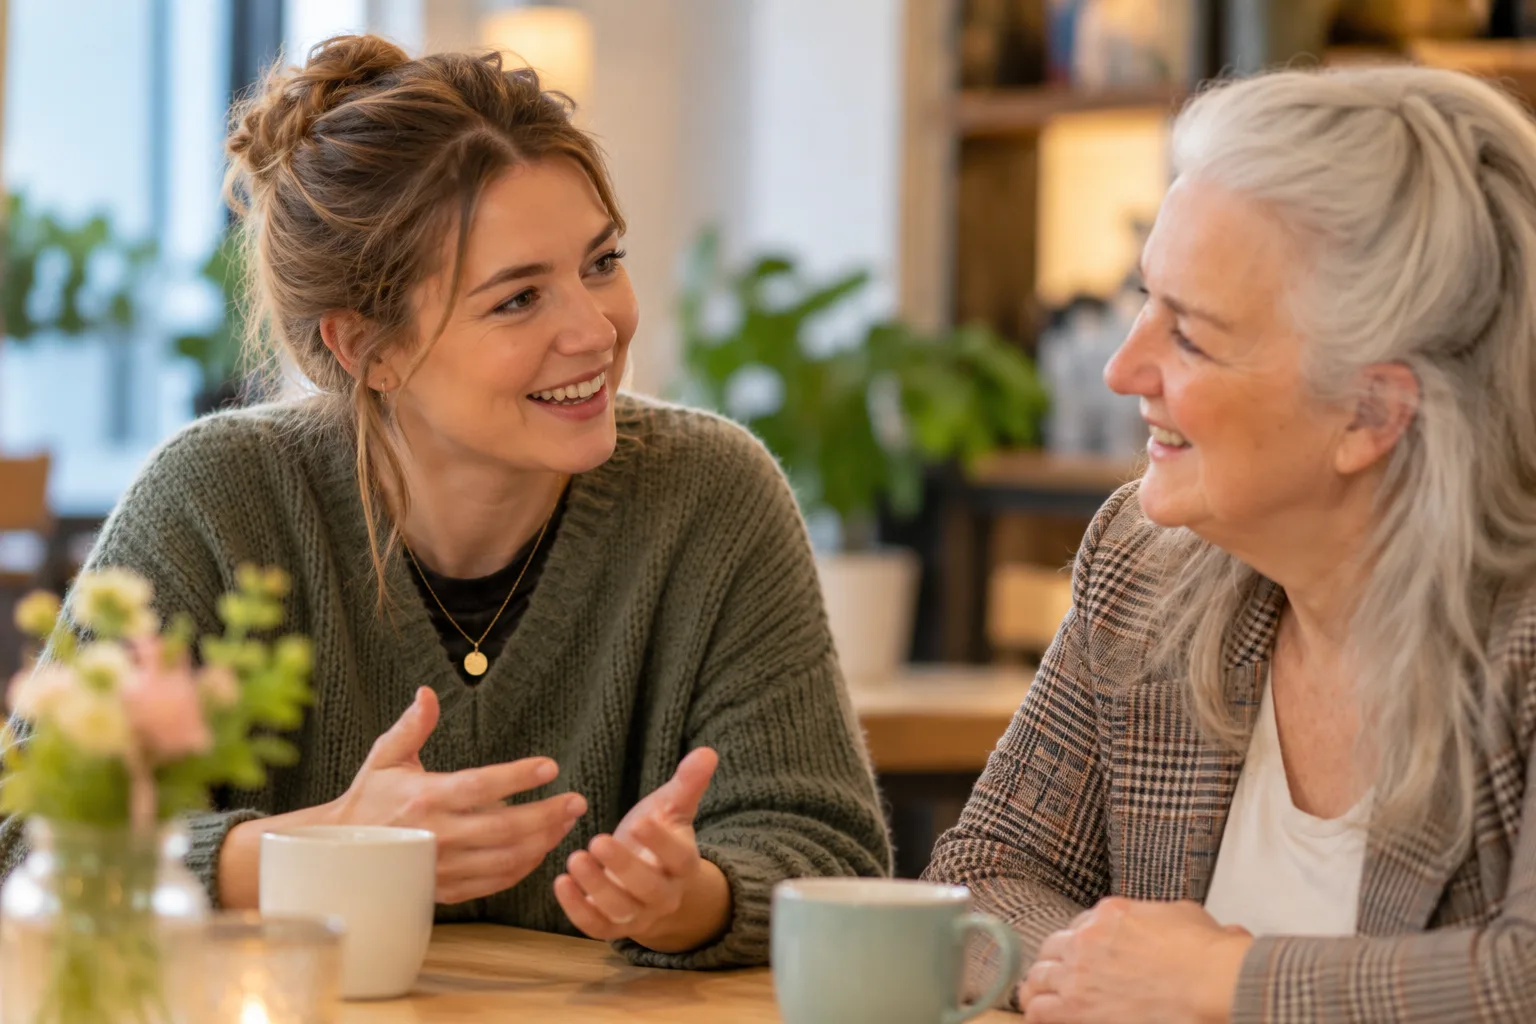
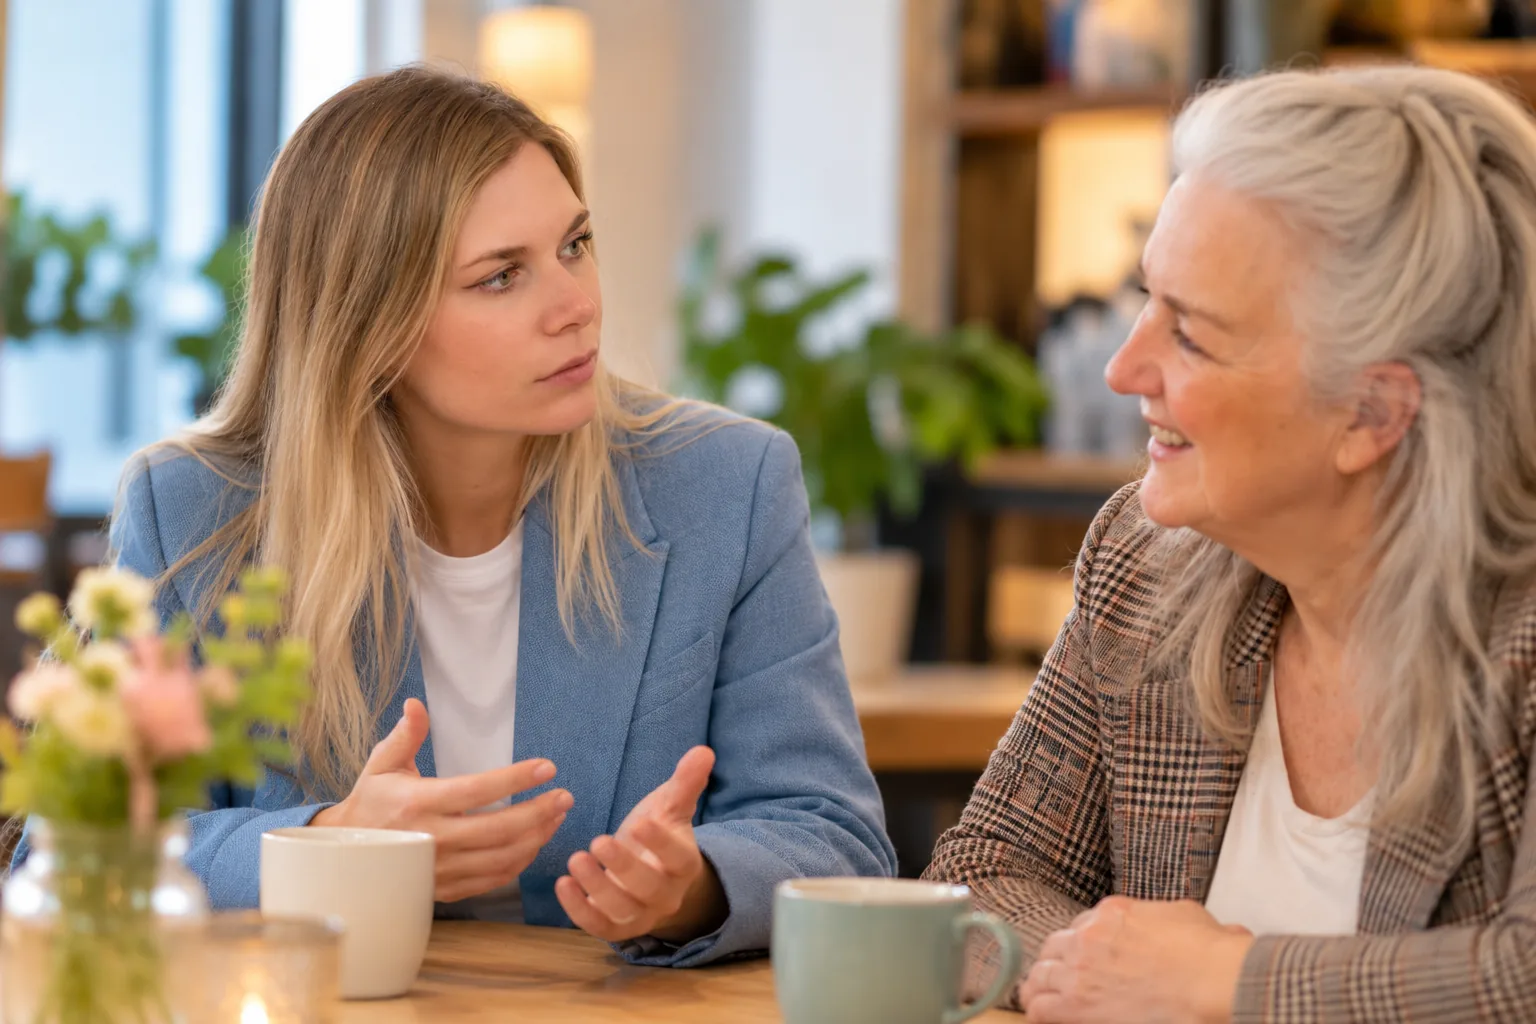
feat(toonoverleven): split Studio by role, new Vraagbaak hero photo
Menu and Start screen now group volunteer work and board-only items. The template fallback for the Vraagbaak hero is the photo Ron supplied; the CMS image row was added directly in Sanity.

diff --git a/apps/toonoverleven/studio/tools/Start.tsx b/apps/toonoverleven/studio/tools/Start.tsx
@@ -13,7 +13,9 @@ import { useRouter } from 'sanity/router';
 // The site this Studio is served from: the concept address today, toonoverleven.nl after the move.
 const SITE = typeof window === 'undefined' ? 'https://toonoverleven.nl' : window.location.origin;
 
-const kaarten = [
+// Wat vrijwilligers bijhouden, en daaronder wat bij het bestuur hoort. Dezelfde
+// twee groepen als in het menu (sanity.config.ts).
+const wekelijks = [
   {
     pad: '/beheer/structure/agenda',
     titel: 'Agenda',
@@ -21,11 +23,20 @@ const kaarten = [
       'De maand met alles erop, zoals hij op de site komt te staan. Klik iets aan om het te wijzigen, of klik een lege dag om er iets op te zetten. Een wekelijkse inloop vult u één keer in met "elke week" en staat dan vanzelf op elke donderdag; valt een keer uit, dan zet u die keer uit in de lijst onderaan het formulier. Kies de vaste activiteit om het moment ook op de juiste bezoekroutes te tonen.',
   },
   {
+    pad: '/beheer/structure/activiteit',
+    titel: 'Alle agendapunten',
+    uitleg:
+      'Dezelfde agendapunten als een lijst. Handig om iets op naam te zoeken of om iets van lang geleden terug te vinden.',
+  },
+  {
     pad: '/beheer/structure/nieuws',
     titel: 'Nieuws & Blog',
     uitleg:
       'De berichten op de nieuwspagina. Elk bericht krijgt een eigen pagina, dus u kunt het hele verhaal kwijt en de link delen op Facebook en Instagram.',
   },
+];
+
+const bestuur = [
   {
     pad: '/beheer/structure/sitePage',
     titel: 'Pagina’s en vaste onderdelen',
@@ -58,6 +69,29 @@ export default function Start() {
     }
   };
 
+  const kaart = ({ pad, titel, uitleg }: { pad: string; titel: string; uitleg: string }) => (
+    <Card
+      key={pad}
+      as="a"
+      href={pad}
+      onClick={ga(pad)}
+      padding={4}
+      radius={2}
+      border
+      tone="default"
+      style={{ textDecoration: 'none', display: 'block', cursor: 'pointer' }}
+    >
+      <Stack space={3}>
+        <Text weight="semibold" size={2}>
+          {titel}
+        </Text>
+        <Text muted size={1}>
+          {uitleg}
+        </Text>
+      </Stack>
+    </Card>
+  );
+
   return (
     <Box padding={[4, 4, 5]} overflow="auto" height="fill">
       <Container width={2}>
@@ -70,30 +104,25 @@ export default function Start() {
             </Text>
           </Stack>
 
-          <Grid columns={[1, 1, 2]} gap={3}>
-            {kaarten.map((kaart) => (
-              <Card
-                key={kaart.pad}
-                as="a"
-                href={kaart.pad}
-                onClick={ga(kaart.pad)}
-                padding={4}
-                radius={2}
-                border
-                tone="default"
-                style={{ textDecoration: 'none', display: 'block', cursor: 'pointer' }}
-              >
-                <Stack space={3}>
-                  <Text weight="semibold" size={2}>
-                    {kaart.titel}
-                  </Text>
-                  <Text muted size={1}>
-                    {kaart.uitleg}
-                  </Text>
-                </Stack>
-              </Card>
-            ))}
-          </Grid>
+          <Stack space={3}>
+            <Heading size={1}>Agenda en nieuws</Heading>
+            <Text muted size={1}>
+              Wat vrijwilligers bijhouden. Als vrijwilliger werkt u alleen hier.
+            </Text>
+            <Grid columns={[1, 1, 3]} gap={3}>
+              {wekelijks.map(kaart)}
+            </Grid>
+          </Stack>
+
+          <Stack space={3}>
+            <Heading size={1}>Alleen voor het bestuur</Heading>
+            <Text muted size={1}>
+              De vaste pagina’s, de teksten en de sponsoren. Wijzigingen hier lopen via het bestuur.
+            </Text>
+            <Grid columns={[1, 1, 3]} gap={3}>
+              {bestuur.map(kaart)}
+            </Grid>
+          </Stack>
 
           <Card padding={4} radius={2} tone="transparent">
             <Stack space={3}>

diff --git a/apps/toonoverleven/studio/sanity.config.ts b/apps/toonoverleven/studio/sanity.config.ts
@@ -27,11 +27,17 @@ const dataset = process.env.SANITY_STUDIO_DATASET || 'production';
  * is drie keer dezelfde inhoud met een ander filter. Nu is het een kalender:
  * de maand met alles erop, zoals de site hem uitrekent. De lijst eronder is er
  * voor zoeken en voor wat lang geleden was.
+ *
+ * Twee groepen onder een kopje: wat vrijwilligers wekelijks bijhouden, en wat
+ * bij het bestuur hoort. Een eigen rol per groep vraagt het Growth-abonnement,
+ * dus dit wijst de weg en houdt niemand tegen. Kopjes en geen mappen, zodat de
+ * adressen (/beheer/structure/sitePage enz.) blijven werken.
  */
 const structure = (S: StructureBuilder) =>
   S.list()
     .title('Toon over Leven')
     .items([
+      S.divider().title('Agenda en nieuws'),
       S.listItem()
         .title('Agenda')
         .id('agenda')
@@ -52,11 +58,11 @@ const structure = (S: StructureBuilder) =>
             .defaultOrdering([{ field: 'datum', direction: 'asc' }]),
         ),
       S.documentTypeListItem('nieuws').title('Nieuws & Blog').icon(EditIcon),
+      S.divider().title('Alleen voor het bestuur'),
       // De verhalen onder Ervaringen. Ze stonden in het schema en op de site,
       // maar niet in dit menu, en een document dat je niet kunt terugvinden
       // kun je ook niet intrekken. Dat is precies waar dat schema om draait.
       S.documentTypeListItem('sitePage').title('Pagina’s en vaste onderdelen').icon(DocumentTextIcon),
-      S.divider(),
       S.listItem()
         .title('Teksten op de site')
         .id('siteTeksten')
